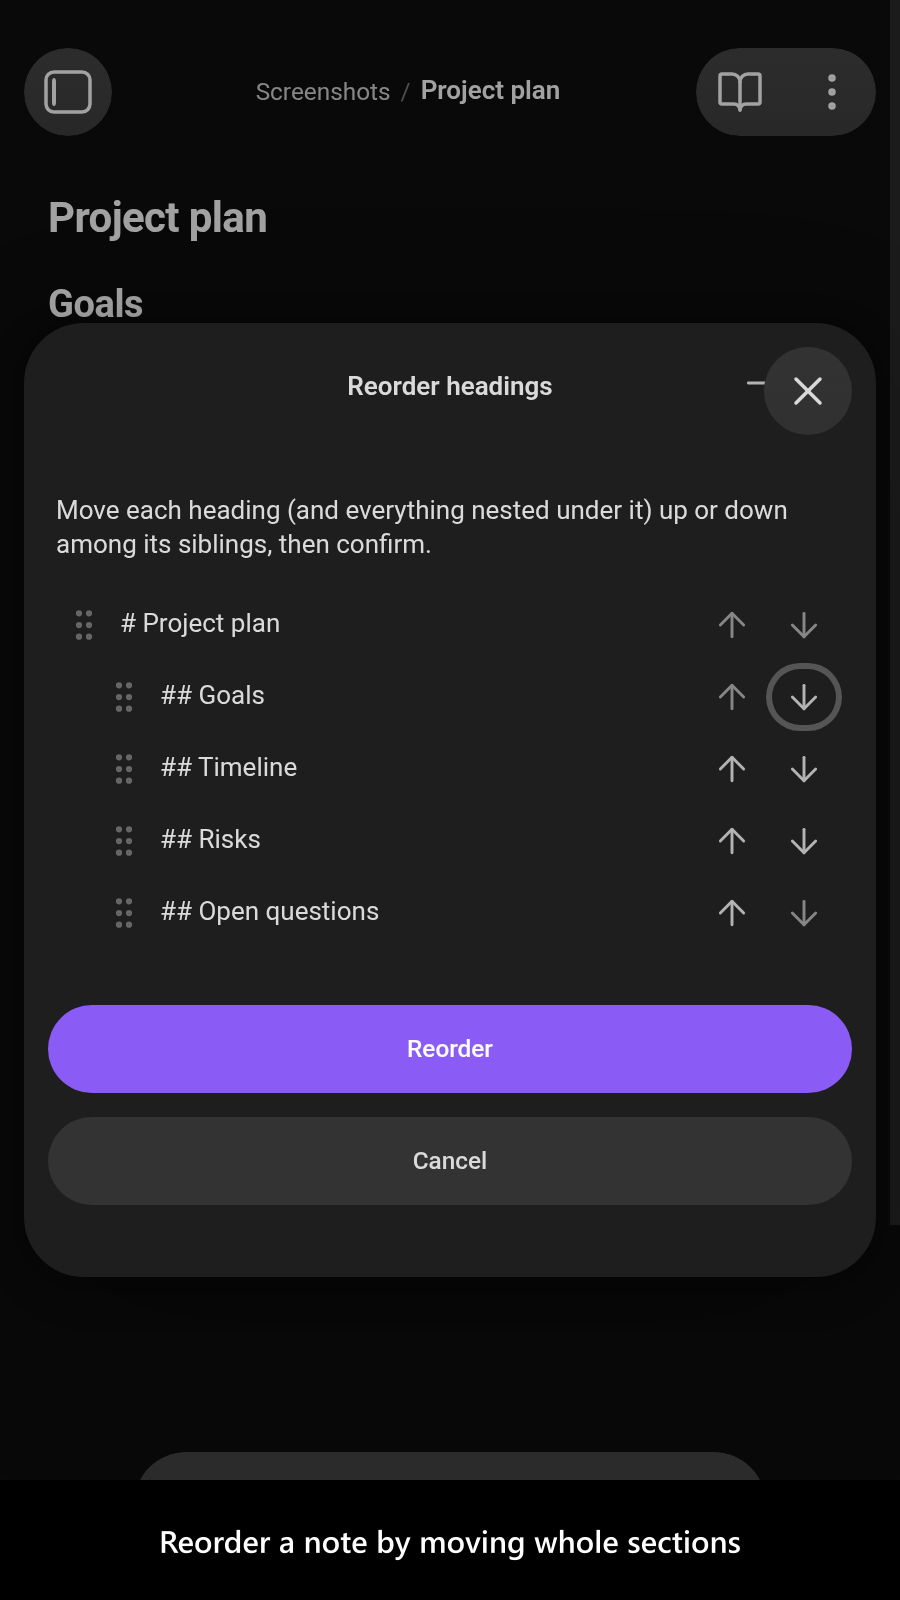
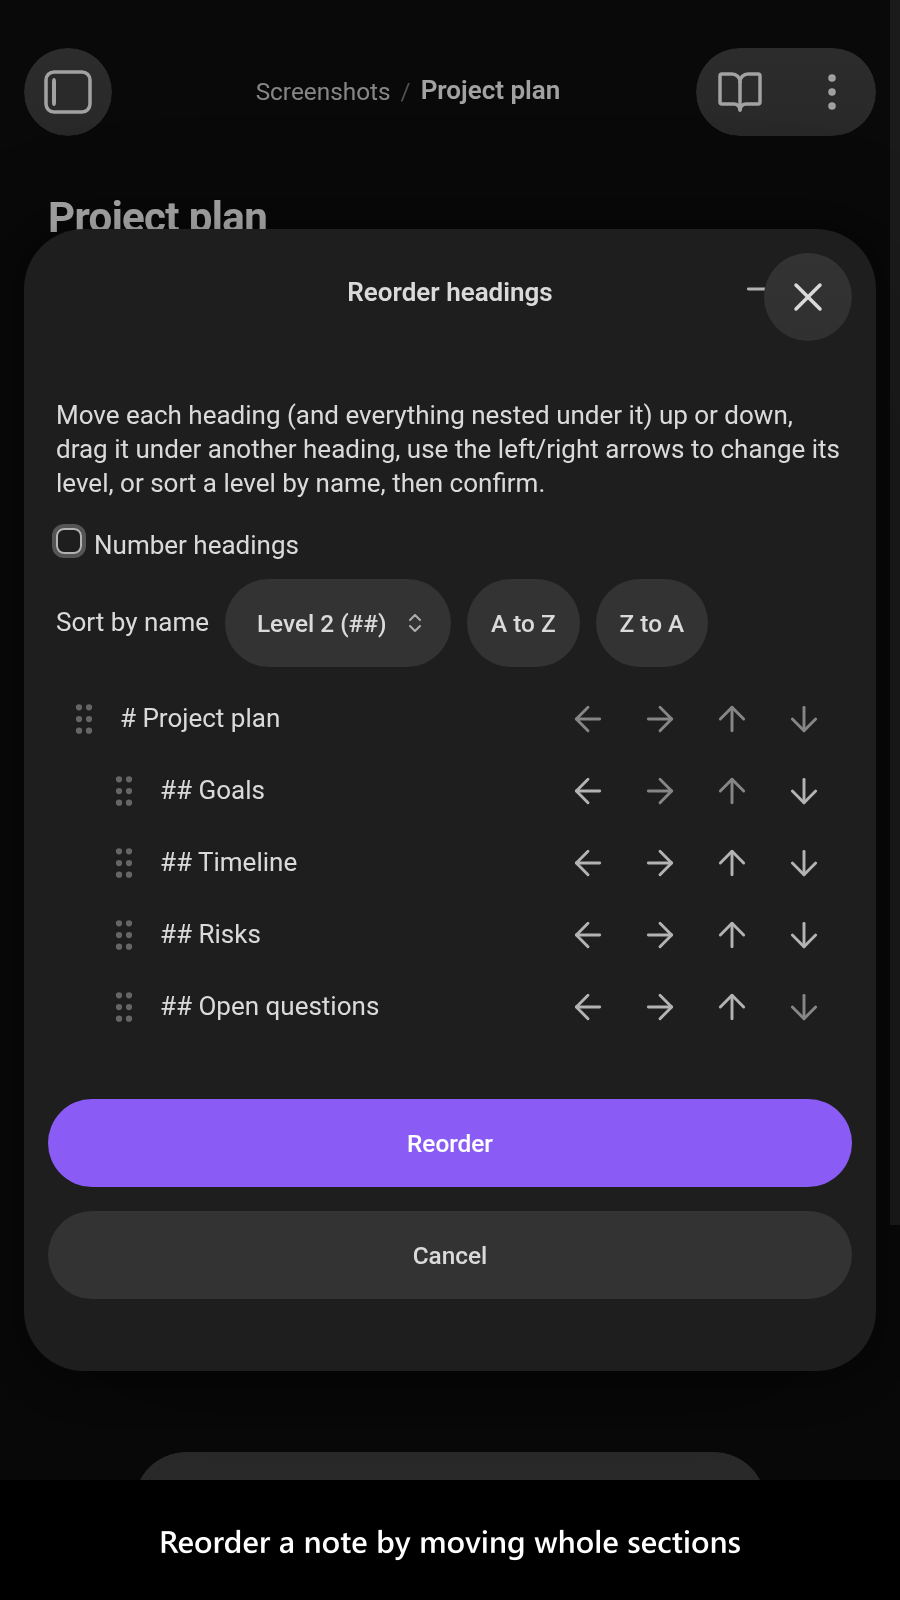
docs(screenshots): keep five mobile frames, matching the desktop set
The community directory caps each form factor at five screenshots, so a
sixth and seventh committed frame could never reach the listing. The
mobile set now shows the same five features as the desktop one, in the
same order: split, extract, reorder, rename, merge. The bare opening
note and the single-heading split are dropped.

The split frame takes the desktop caption, since its old "Split it ..."
leaned on the dropped opener. The reorder frame is re-shot and now shows
the Sort by name row.

diff --git a/src/screenshots.android-capture.integration.test.ts b/src/screenshots.android-capture.integration.test.ts
@@ -1,15 +1,15 @@
 /**
  * @file
  *
- * Produces the seven mobile screenshots the community-store listing needs,
+ * Produces the five mobile screenshots the community-store listing needs,
  * driving a staged note in Obsidian Mobile on a real Android
  * emulator and writing `images/screenshots/screenshot-mobile-N.png`.
  *
- * The mobile counterpart of the desktop capture suite, in the same order where
- * the two sets overlap: the note the flow starts from, the `Extract` picker, the
- * dialogs, and the `Merge` picker last. On a phone the dialogs fill nearly the
- * whole screen and grow a row of touch controls the desktop build never shows,
- * which is why the mobile set carries more frames than the desktop one.
+ * The mobile counterpart of the desktop capture suite, showing the same five
+ * features in the same order: the whole-note split, the `Extract` picker, the
+ * reorder and rename dialogs, and the `Merge` picker last. Five is the
+ * directory's cap per form factor, so a new frame replaces one of these rather
+ * than joining them.
  *
  * **The two pickers are taken with the soft keyboard UP, and nothing else is.**
  * `Extract` and `Merge` are Obsidian suggesters, whose field is anchored to the
@@ -17,7 +17,7 @@
  * the list renders as a full-height empty band, which is why this suite used to
  * leave both out. The harness can raise a real IME now
  * (`withSoftKeyboardEnabled` + `raiseSoftKeyboard`), so those two frames go
- * through {@link shootWithSoftKeyboard} and the device framebuffer. The five
+ * through {@link shootWithSoftKeyboard} and the device framebuffer. The three
  * dialog frames stay on `captureObsidianScreenshot`, which photographs the page:
  * the rename-heading frame was measured WITH a keyboard and came back worse,
  * because Android's own selection toolbar covers the dialog title (the repo's
@@ -259,13 +259,11 @@ describe('mobile store screenshots', () => {
     expect(setupDiagnostics).toMatchObject({ isNoteOpen: true });
   });
 
-  it('1 - the note the whole flow starts from', async () => {
-    // The only shot that does not run a command, so it is the only one that does
-    // not go through the dismissal `openCommandDialog` does first — and this
-    // plugin greets a fresh install with a "Release notes" dialog, which is what
-    // got photographed instead of the note.
-    await dismissDialogs();
-    await shoot(1, 'One long note, five sections');
+  it('1 - the whole-note split preview', async () => {
+    // Every shot runs a command, so every one goes through the dismissal
+    // `openCommandDialog` does first, which is what clears the "Release notes"
+    // dialog this plugin greets a fresh install with.
+    await runCommandAndCapture('split-note-by-headings-recursively', 1, 'Split a note into one file per heading, nested');
   });
 
   it('2 - the extract picker', async () => {
@@ -282,22 +280,9 @@ describe('mobile store screenshots', () => {
     await runCommandAndCapture('rename-heading', 4, 'Rename a heading and every link to it');
   });
 
-  it('5 - the whole-note split preview', async () => {
-    await runCommandAndCapture('split-note-by-headings-recursively', 5, 'Split it into one file per heading, nested');
-  });
-
-  it('6 - the single-heading split preview', async () => {
-    // The same machinery scoped to ONE heading, which is the far more common
-    // everyday use. Every shot in this set escapes its dialog rather than
-    // confirming it: the harness pushes files into a vault that persists on the
-    // device between runs and is never cleared, so one confirmed split would
-    // leave its produced notes behind for every later run to trip over.
-    await runCommandAndCapture('split-heading-recursively', 6, 'Or split just one heading, and all it contains');
-  });
-
-  it('7 - the merge picker', async () => {
+  it('5 - the merge picker', async () => {
     // Nothing typed: the frame is the list of notes this one can be merged into.
-    await runPickerAndCapture('merge-file', 7, 'Merge this note into another');
+    await runPickerAndCapture('merge-file', 5, 'Merge this note into another');
   }, TEST_TIMEOUT_IN_MILLISECONDS);
 });
 
@@ -326,35 +311,6 @@ async function checkIsSoftKeyboardShown(): Promise<boolean> {
   });
 
   return parseInputMethodState(dump).includes(INPUT_SHOWN_STATE);
-}
-
-/**
- * Closes every dialog currently on screen and waits for the last of them to go.
- *
- * The in-renderer `pressKey` dispatches a SYNTHETIC keydown on Android, where
- * the harness's trusted input path does not exist. Obsidian's keymap listens on
- * `document`, so a dispatched event dismisses a dialog just as a real key would.
- * Clicking the `.modal-close-button` is NOT an alternative: on an
- * `obsidian-dev-utils` alert it does not close the dialog at all.
- */
-async function dismissDialogs(): Promise<void> {
-  await evalInObsidian({
-    async callback({ lib: { pressKey, waitUntil } }) {
-      const MODAL_TIMEOUT_IN_MILLISECONDS = 15_000;
-      const SETTLE_DELAY_IN_MILLISECONDS = 600;
-
-      await pressKey({ key: 'Escape' });
-
-      await waitUntil({
-        message: 'every open dialog to close',
-        predicate: () => document.querySelectorAll('.modal-container').length === 0,
-        timeoutInMilliseconds: MODAL_TIMEOUT_IN_MILLISECONDS
-      });
-
-      await sleep(SETTLE_DELAY_IN_MILLISECONDS);
-    },
-    vaultPath: vaultPath()
-  });
 }
 
 /**

diff --git a/AGENTS.md b/AGENTS.md
@@ -187,17 +187,17 @@ So the frame keeps `captureObsidianScreenshot`, which photographs the page: no s
 
 ### The two picker frames DO raise it, and that is not a contradiction
 
-The mobile set is seven frames, and `2` (`Extract this heading...`) and `7` (`Merge file...`) are taken with the soft keyboard up, through the device framebuffer. They were left out until then because a suggester without a keyboard renders as a full-height empty list. A suggester's field is anchored to the bottom of the viewport and its list grows upward from it, so the keyboard lifts it and the frame gains a filled list. A centred `prompt` like the rename dialog is not that shape: its frame gains nothing, as above. So the rule is per shape, not per suite: suggesters get the keyboard, dialogs keep the page capture.
+The mobile set is five frames, the cap the directory allows per form factor, and `2` (`Extract this heading...`) and `5` (`Merge file...`) are taken with the soft keyboard up, through the device framebuffer. They were left out until then because a suggester without a keyboard renders as a full-height empty list. A suggester's field is anchored to the bottom of the viewport and its list grows upward from it, so the keyboard lifts it and the frame gains a filled list. A centred `prompt` like the rename dialog is not that shape: its frame gains nothing, as above. So the rule is per shape, not per suite: suggesters get the keyboard, dialogs keep the page capture.
 
 Three things the suite does around those two frames are load-bearing:
 
 - **The keyboard goes back down after each picker.** The dialog frames that follow are page captures, and the IME would otherwise leave them rendered into the viewport it shrank. The reorder frame, which comes straight after the extract picker, came back byte-identical to its pre-change capture, which is how that was checked.
 - **The seeded `Timeline` is taken out of the field for the touch and written back.** A touch that lands inside text makes Chromium draw a selection handle, and the framebuffer photographs it. `raiseSoftKeyboard` does this itself since the `obsidian-integration-testing` 17 float (`shouldEmptyFieldForTouch`, on by default), so the suite no longer has a step of its own for it.
-- **The `input` re-dispatch plus `scrollIntoView` workaround is skipped for the keyboard frames.** With a real IME up, the IME does the scrolling. The five dialog frames still take the workaround path. None of them is a suggester, so it changes nothing for them, and it was left rather than removed without a measurement.
+- **The `input` re-dispatch plus `scrollIntoView` workaround is skipped for the keyboard frames.** With a real IME up, the IME does the scrolling. The three dialog frames still take the workaround path. None of them is a suggester, so it changes nothing for them, and it was left rather than removed without a measurement.
 
 **The two keyboard frames have their status bar painted out** with the harness's `paintOutStatusBar`, at a measured 48 px band on the `obsidian_screenshots` AVD. Without it the status-bar clock and battery made those two frames differ on every run. The harness refuses to paint a band whose bottom row is not one flat color, so a changed status bar fails the capture instead of painting over the app.
 
-**The IME's own glyphs can still differ between runs, and nothing here hides them.** Once, while re-shooting on 2026-09-24, the `,` and `.` keys on the keyboard's bottom row of frame 2 were drawn a few pixels higher than in the run after it (150 pixels, rows 1451 to 1467). It did not come back: five more runs on 2026-09-25, each on a fresh emulator boot, gave byte-identical copies of frames 2 and 7, matching the committed ones. A one-off with no pattern gives nothing to wait on, and painting or cropping the keyboard would take away what those two frames exist to show. So it is accepted. If a re-shoot changes only that band, re-run it rather than committing the difference. A keyboard settle that is measured rather than fixed would belong in `obsidian-integration-testing`.
+**The IME's own glyphs can still differ between runs, and nothing here hides them.** Once, while re-shooting on 2026-09-24, the `,` and `.` keys on the keyboard's bottom row of frame 2 were drawn a few pixels higher than in the run after it (150 pixels, rows 1451 to 1467). It did not come back: five more runs on 2026-09-25, each on a fresh emulator boot, gave byte-identical copies of the two picker frames (then numbered 2 and 7), matching the committed ones. A one-off with no pattern gives nothing to wait on, and painting or cropping the keyboard would take away what those two frames exist to show. So it is accepted. If a re-shoot changes only that band, re-run it rather than committing the difference. A keyboard settle that is measured rather than fixed would belong in `obsidian-integration-testing`.
 
 The desktop frames needed no local fix for the blinking caret. `obsidian-integration-testing` >= 17.1.0 hides the focused element's caret inside `captureObsidianScreenshot` itself (`shouldHideCaret`, on by default). With it, `screenshot-desktop-5.png`, the merge picker with an empty focused input, reproduced byte for byte in four back-to-back runs.
 

diff --git a/README.md b/README.md
@@ -16,13 +16,11 @@ Obsidian's core [`Note composer`](https://help.obsidian.md/plugins/note-composer
 <a href="https://github.com/mnaoumov/obsidian-advanced-note-composer/blob/HEAD/images/screenshots/screenshot-desktop-3.png"><img src="images/screenshots/screenshot-desktop-3.png" alt="Reorder a note by moving whole sections" width="600"></a>
 <a href="https://github.com/mnaoumov/obsidian-advanced-note-composer/blob/HEAD/images/screenshots/screenshot-desktop-4.png"><img src="images/screenshots/screenshot-desktop-4.png" alt="Rename a heading and every link to it" width="600"></a>
 <a href="https://github.com/mnaoumov/obsidian-advanced-note-composer/blob/HEAD/images/screenshots/screenshot-desktop-5.png"><img src="images/screenshots/screenshot-desktop-5.png" alt="Merge this note into another" width="600"></a>
-<a href="https://github.com/mnaoumov/obsidian-advanced-note-composer/blob/HEAD/images/screenshots/screenshot-mobile-1.png"><img src="images/screenshots/screenshot-mobile-1.png" alt="One long note, five sections" width="270"></a>
+<a href="https://github.com/mnaoumov/obsidian-advanced-note-composer/blob/HEAD/images/screenshots/screenshot-mobile-1.png"><img src="images/screenshots/screenshot-mobile-1.png" alt="Split a note into one file per heading, nested" width="270"></a>
 <a href="https://github.com/mnaoumov/obsidian-advanced-note-composer/blob/HEAD/images/screenshots/screenshot-mobile-2.png"><img src="images/screenshots/screenshot-mobile-2.png" alt="Extract a heading into its own note, linked in place" width="270"></a>
 <a href="https://github.com/mnaoumov/obsidian-advanced-note-composer/blob/HEAD/images/screenshots/screenshot-mobile-3.png"><img src="images/screenshots/screenshot-mobile-3.png" alt="Reorder a note by moving whole sections" width="270"></a>
 <a href="https://github.com/mnaoumov/obsidian-advanced-note-composer/blob/HEAD/images/screenshots/screenshot-mobile-4.png"><img src="images/screenshots/screenshot-mobile-4.png" alt="Rename a heading and every link to it" width="270"></a>
-<a href="https://github.com/mnaoumov/obsidian-advanced-note-composer/blob/HEAD/images/screenshots/screenshot-mobile-5.png"><img src="images/screenshots/screenshot-mobile-5.png" alt="Split it into one file per heading, nested" width="270"></a>
-<a href="https://github.com/mnaoumov/obsidian-advanced-note-composer/blob/HEAD/images/screenshots/screenshot-mobile-6.png"><img src="images/screenshots/screenshot-mobile-6.png" alt="Or split just one heading, and all it contains" width="270"></a>
-<a href="https://github.com/mnaoumov/obsidian-advanced-note-composer/blob/HEAD/images/screenshots/screenshot-mobile-7.png"><img src="images/screenshots/screenshot-mobile-7.png" alt="Merge this note into another" width="270"></a>
+<a href="https://github.com/mnaoumov/obsidian-advanced-note-composer/blob/HEAD/images/screenshots/screenshot-mobile-5.png"><img src="images/screenshots/screenshot-mobile-5.png" alt="Merge this note into another" width="270"></a>
 </div>
 
 </details>
